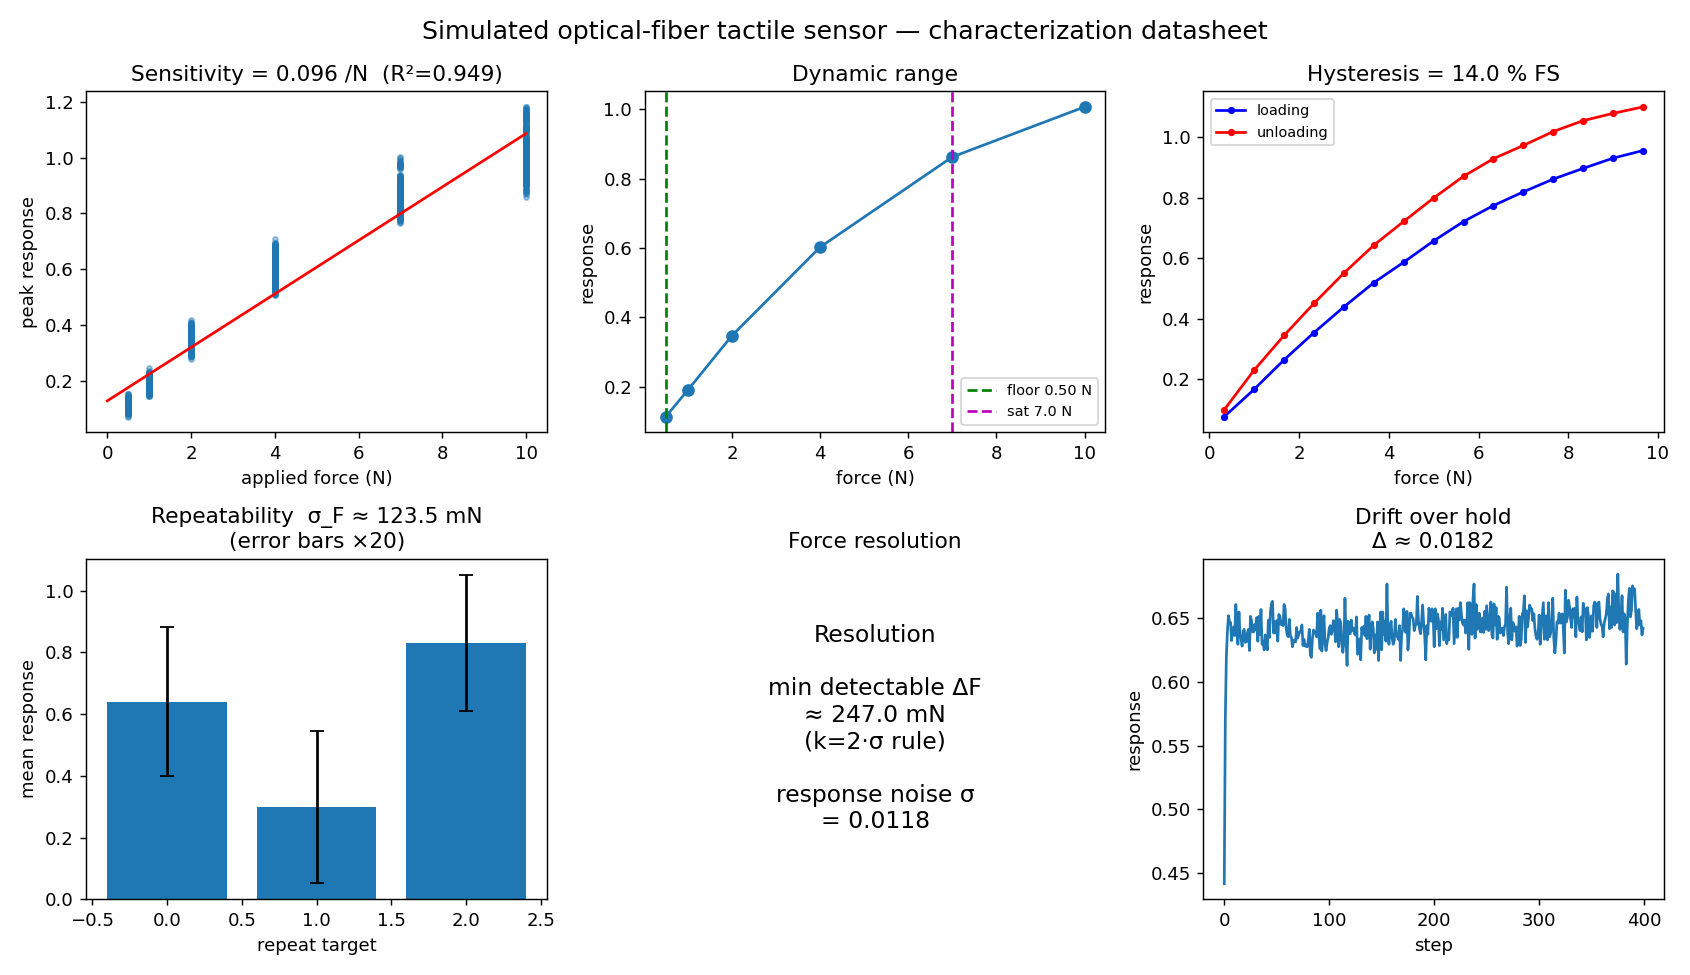
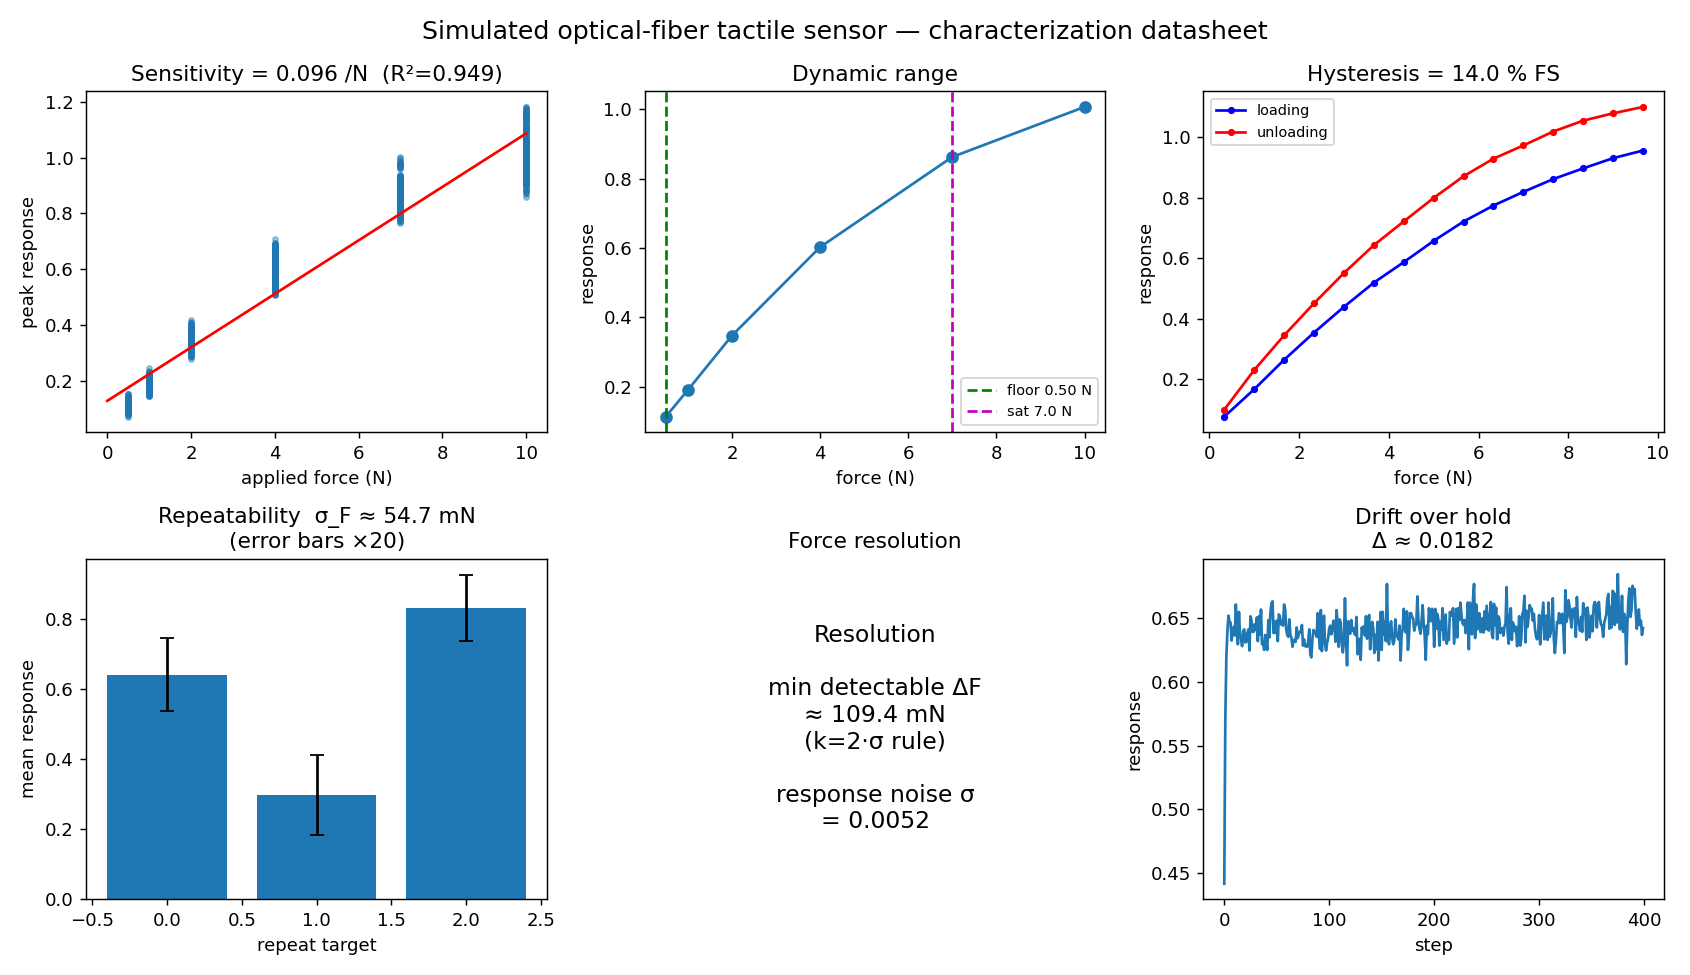
Speed up analysis with MLP early_stopping; refresh figures + README numbers
early_stopping (hold out 10%, stop on plateau) cuts run_analysis from ~15min to
~1min and reduces spatial-holdout overfit (force R2 -2.97 -> -0.40, still a real
generalization gap). Corrected per-press repeatability tightens resolution to
109mN / sigma_F 55mN. README metrics updated to match.

diff --git a/src/fibercal/ml.py b/src/fibercal/ml.py
@@ -60,13 +60,16 @@ def _make_models(kind: str, seed: int):
         det = make_pipeline(StandardScaler(), LogisticRegression(max_iter=2000))
         frc = make_pipeline(StandardScaler(), Ridge(alpha=1.0))
         loc = make_pipeline(StandardScaler(), Ridge(alpha=1.0))
-    else:  # mlp
+    else:  # mlp -- early_stopping: hold out 10%, stop on plateau (fast + less overfit)
         det = make_pipeline(StandardScaler(),
-                            MLPClassifier((128, 64), max_iter=400, random_state=seed))
+                            MLPClassifier((128, 64), max_iter=400, random_state=seed,
+                                          early_stopping=True, n_iter_no_change=8))
         frc = make_pipeline(StandardScaler(),
-                            MLPRegressor((128, 64), max_iter=400, random_state=seed))
+                            MLPRegressor((128, 64), max_iter=400, random_state=seed,
+                                         early_stopping=True, n_iter_no_change=8))
         loc = make_pipeline(StandardScaler(),
-                            MLPRegressor((128, 64), max_iter=400, random_state=seed))
+                            MLPRegressor((128, 64), max_iter=400, random_state=seed,
+                                         early_stopping=True, n_iter_no_change=8))
     return det, frc, loc
 
 

diff --git a/README.md b/README.md
@@ -31,21 +31,21 @@ streamlit run app/dashboard.py        # interactive demo
 | split | model | detection F1 | force R² | force MAE | localization (median) |
 |---|---|---|---|---|---|
 | random | linear | 0.97 | 0.969 | 354 mN | 6.57 mm |
-| random | **MLP** | 0.97 | **0.987** | **223 mN** | **0.81 mm** |
+| random | **MLP** | 0.97 | **0.987** | **228 mN** | **0.88 mm** |
 | spatial-holdout | linear | 0.96 | 0.682 | 915 mN | 17.6 mm |
-| spatial-holdout | MLP | 0.96 | **−2.97** | 2559 mN | 10.2 mm |
+| spatial-holdout | MLP | 0.98 | **−0.40** | 1599 mN | 9.88 mm |
 
-The **spatial-holdout collapse** is a deliberate, honest result: when an entire surface quadrant is never probed, the flexible MLP extrapolates catastrophically while the linear model degrades gracefully. This is *why* calibration must cover the whole sensor — and it motivates the active-learning study below.
+The **spatial-holdout gap** is a deliberate, honest result: when an entire surface quadrant is never probed, the flexible MLP fails to extrapolate to it (negative force R² — worse than predicting the mean), while the linear model degrades more gracefully. This is *why* calibration must cover the whole sensor — and it motivates the active-learning study below.
 
 **Sensor characterization** (auto-generated datasheet):
 
 | metric | value |
 |---|---|
 | sensitivity | 0.096 /N (linearity R² = 0.95) |
-| force resolution (2σ) | 247 mN |
+| force resolution (2σ) | 109 mN |
 | detection floor / saturation | 0.5 N / 7.0 N |
 | hysteresis | 14.0 % FS |
-| repeatability (σ_F) | 124 mN |
+| repeatability (σ_F) | 55 mN |
 
 **Automated calibration** (active vs random sampling): core-set selection picks which probes to execute using only the *commanded* (x, y, force) coordinates — no up-front probing — and only the chosen probes are pressed, so the x-axis is genuine hardware presses. On a realistic *biased* probe pool (clustered locations, force skewed to the saturated regime) it reaches random's final force-RMSE with **70 % fewer samples**; on a uniform pool there is no gain — reported honestly. ![active learning](figures/active_learning.png)
 